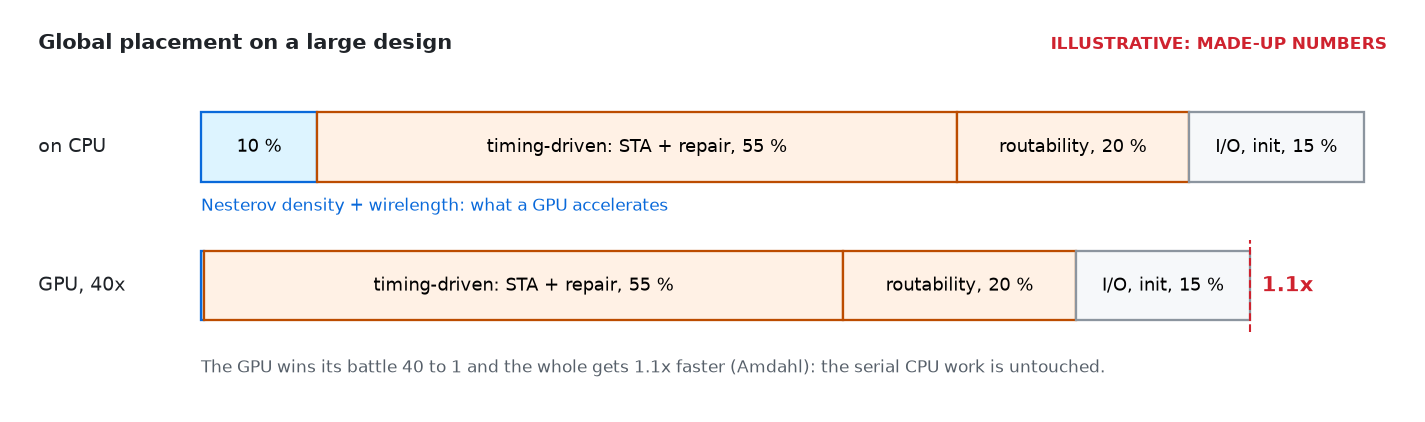
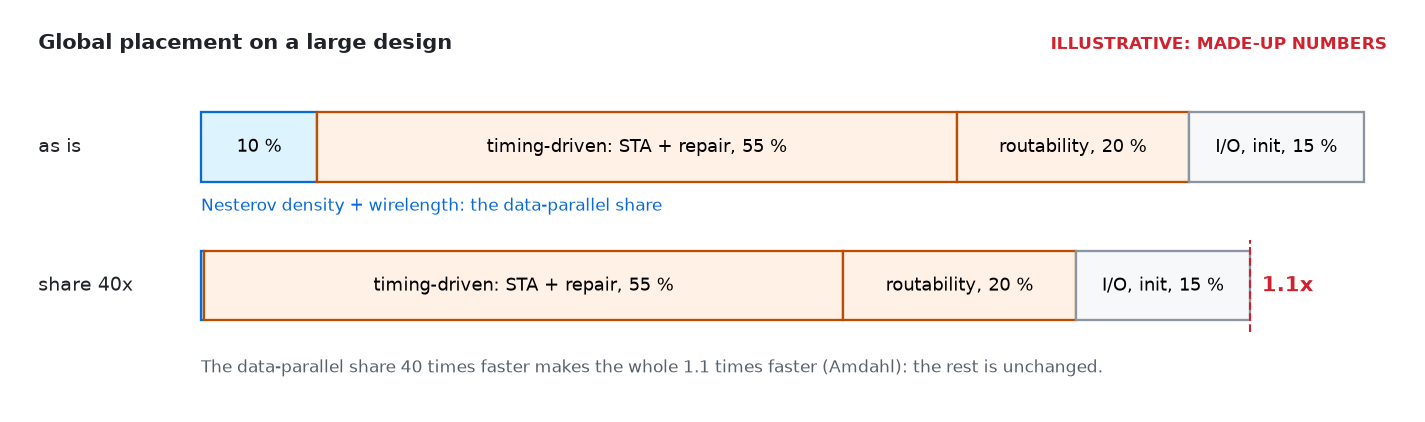
docs: neutral wording in the global placement figure
The figure named a hardware class and called the speedup a battle won.
It now names the data-parallel share of global placement and states
the Amdahl bound, matching the text around it.

Claude-Session: https://claude.ai/code/session_018PFLaCzFtFbnWE4nPTDwpC

diff --git a/docs/images/parallel_synthesis_diagrams.py b/docs/images/parallel_synthesis_diagrams.py
@@ -704,10 +704,10 @@ def gpl_split():
         (0.15, GREY, GREY_EDGE, "I/O, init, 15 %"),
     ]
 
-    def bar(y, gpu_speedup):
+    def bar(y, speedup):
         x = x0
         for i, (share, fc, ec, label) in enumerate(split):
-            w = width * share / (gpu_speedup if i == 0 else 1)
+            w = width * share / (speedup if i == 0 else 1)
             ax.add_patch(plt.Rectangle((x, y), w, 0.6, fc=fc, ec=ec, lw=1.1))
             if w > 0.5:
                 ax.text(
@@ -716,16 +716,16 @@ def gpl_split():
             x += w
         return x
 
-    ax.text(0.2, 2.25, "on CPU", fontsize=9, color=INK, va="center")
+    ax.text(0.2, 2.25, "as is", fontsize=9, color=INK, va="center")
     bar(1.95, 1)
     ax.text(
         x0,
         1.7,
-        "Nesterov density + wirelength: what a GPU accelerates",
+        "Nesterov density + wirelength: the data-parallel share",
         fontsize=8,
         color=BLUE_EDGE,
     )
-    ax.text(0.2, 1.05, "GPU, 40x", fontsize=9, color=INK, va="center")
+    ax.text(0.2, 1.05, "share 40x", fontsize=9, color=INK, va="center")
     end = bar(0.75, 40)
     ax.plot([end, end], [0.65, 1.45], color=RED_EDGE, ls="--", lw=1)
     ax.text(
@@ -734,7 +734,7 @@ def gpl_split():
     ax.text(
         x0,
         0.3,
-        "The GPU wins its battle 40 to 1 and the whole gets 1.1x faster (Amdahl): the serial CPU work is untouched.",
+        "The data-parallel share 40 times faster makes the whole 1.1 times faster (Amdahl): the rest is unchanged.",
         fontsize=8,
         color=MUTED,
     )
